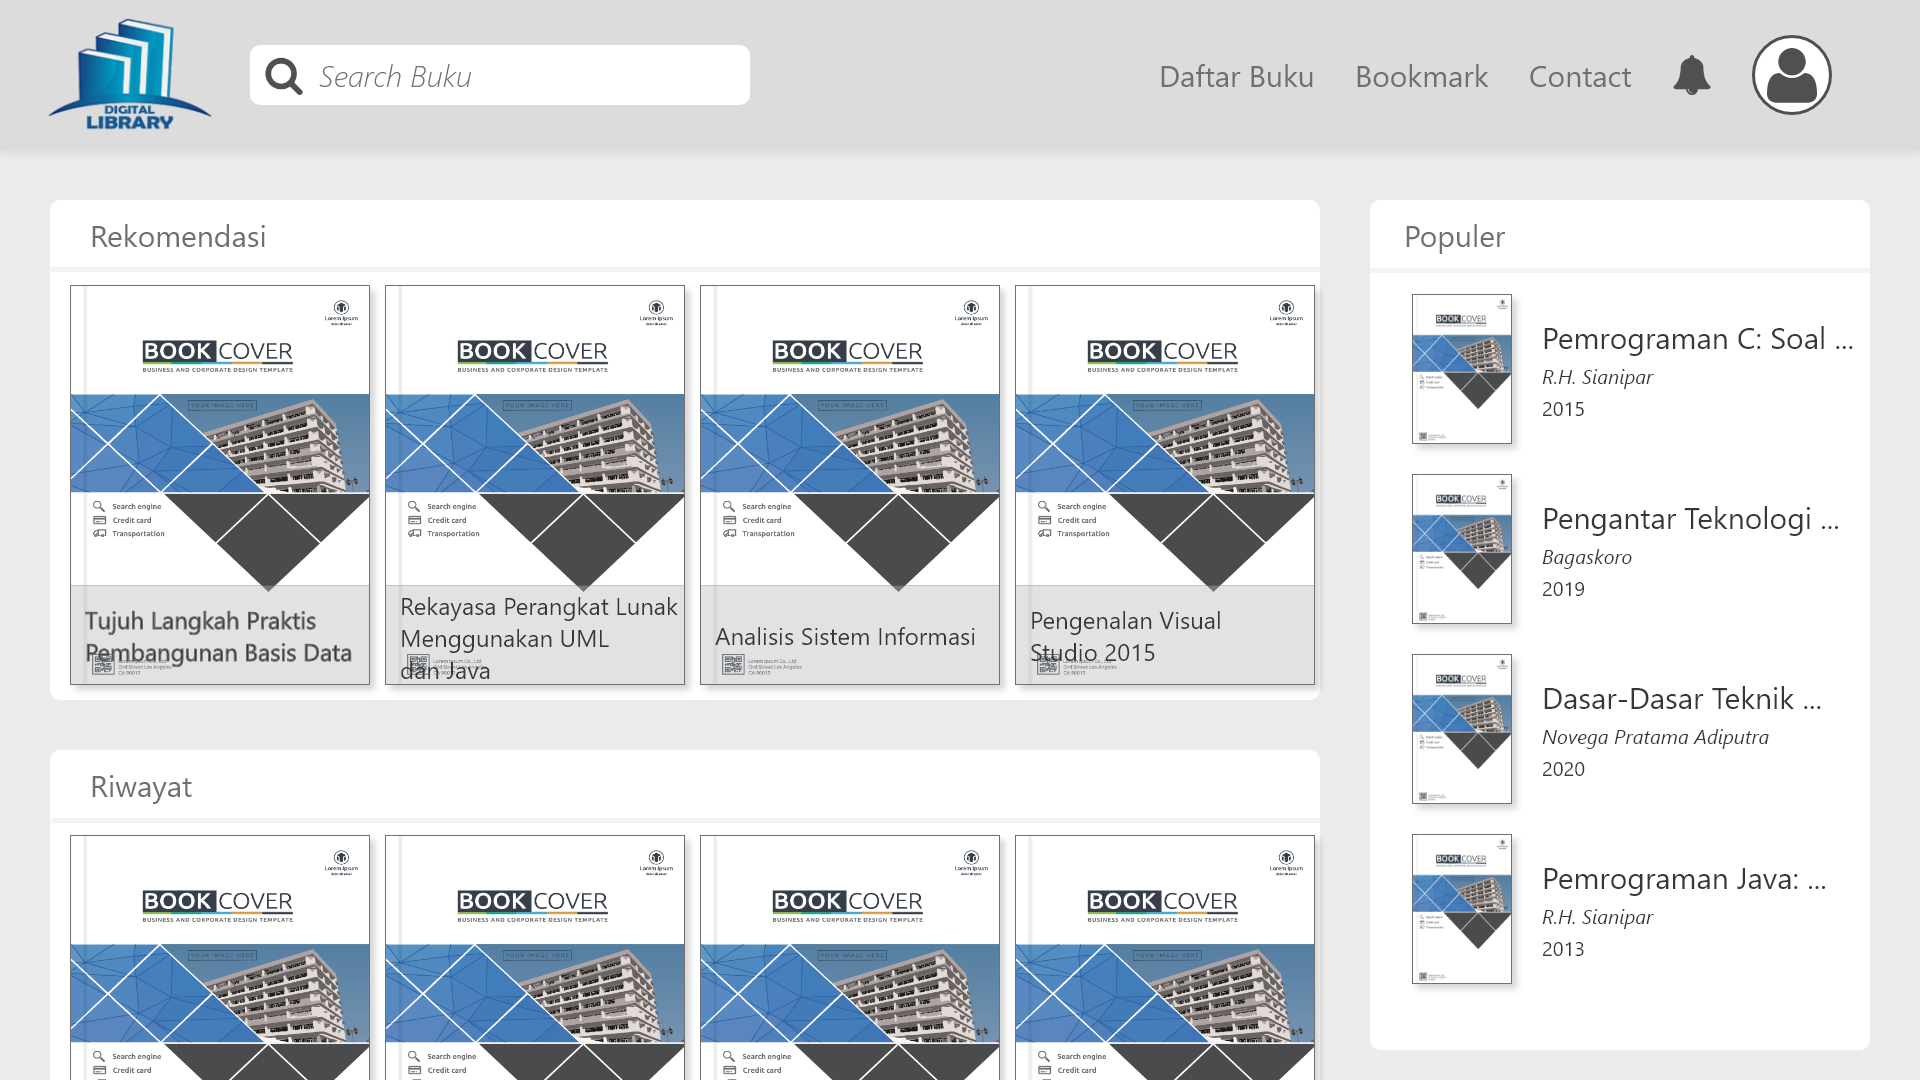
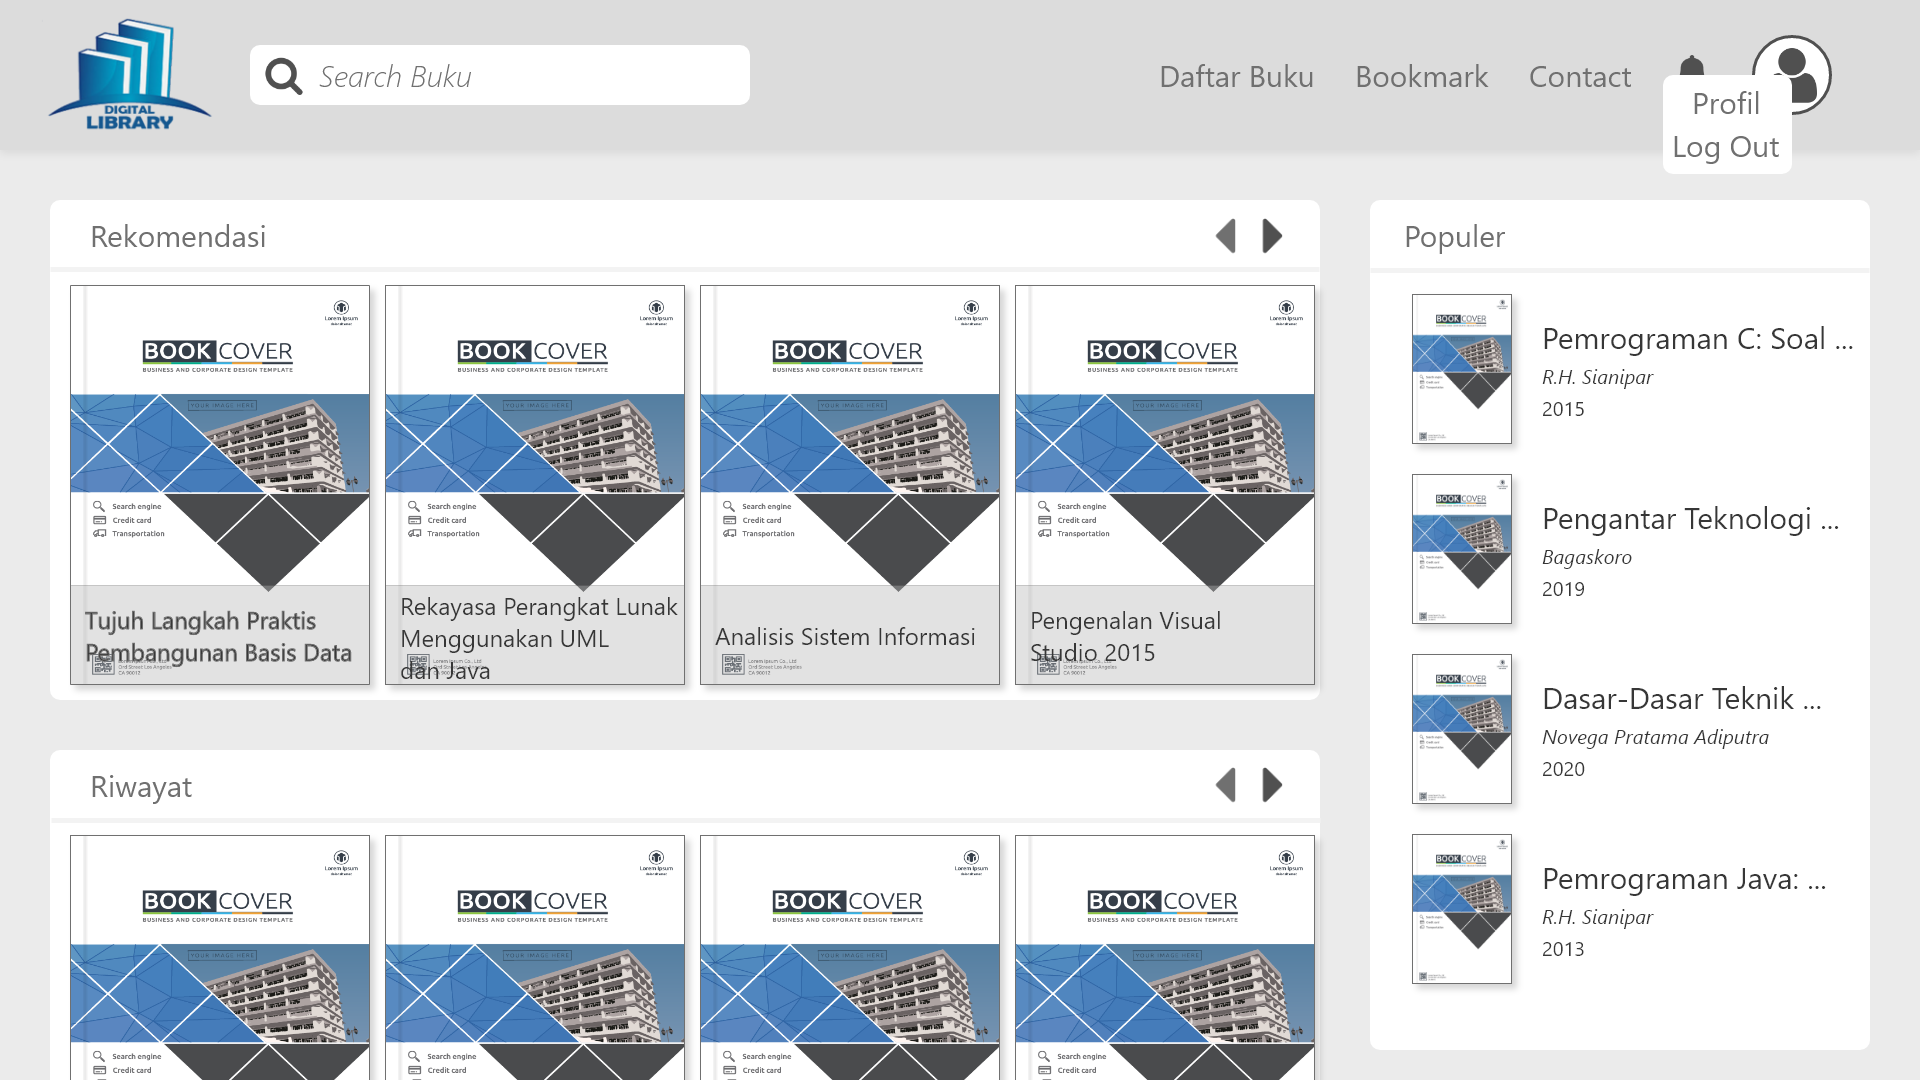
Create Design Home

Changed region(s): [[0.8438, 0.0611, 0.9375, 0.1528], [0.625, 0.7028, 0.6875, 0.7333], [0.625, 0.2139, 0.6875, 0.2444]]

diff --git a/index.html b/index.html
@@ -46,7 +46,7 @@
 					<br><img src="img/login.png" width="600px" height="400px">
 				</section>
 				<section><h3>Design Home</h3>
-					Di Halaman home terdapat textbox pencarian dan list buku dan juga menu menu yaitu Daftar Buku, Bookmark, Contact. 
+					Ini merupakan Halaman home yang merupakan halaman pertama yang dijumpai di website setelah dilakukan login.
 					<br><img src="img/home.png" width="600px" height="400px">
 				</section>
 				<section><h3>Pengembalian</h3>
